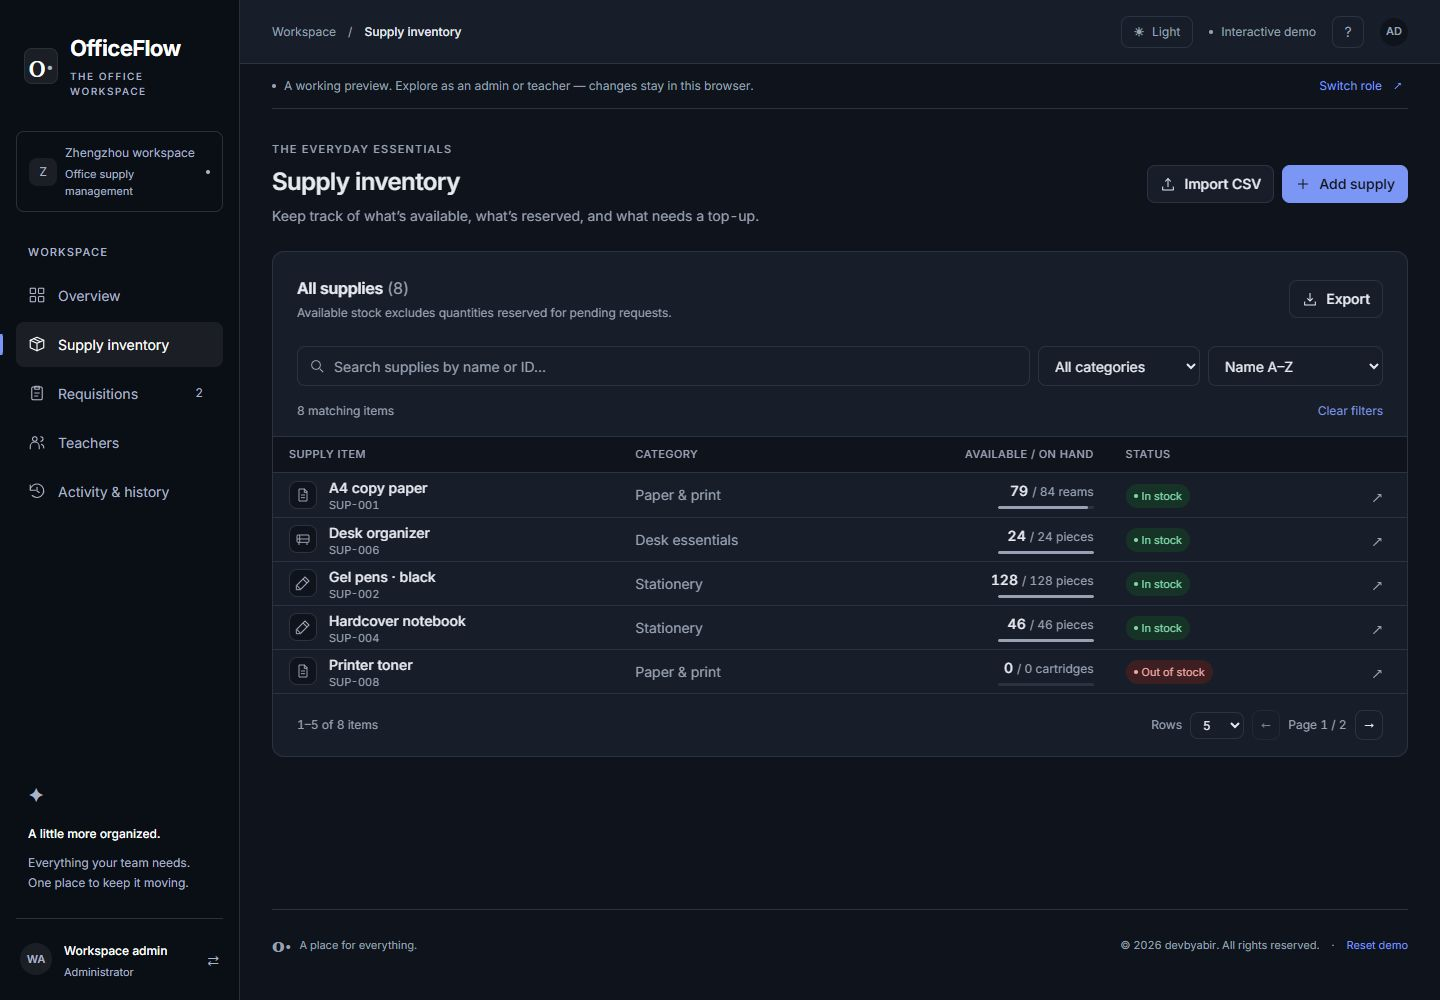
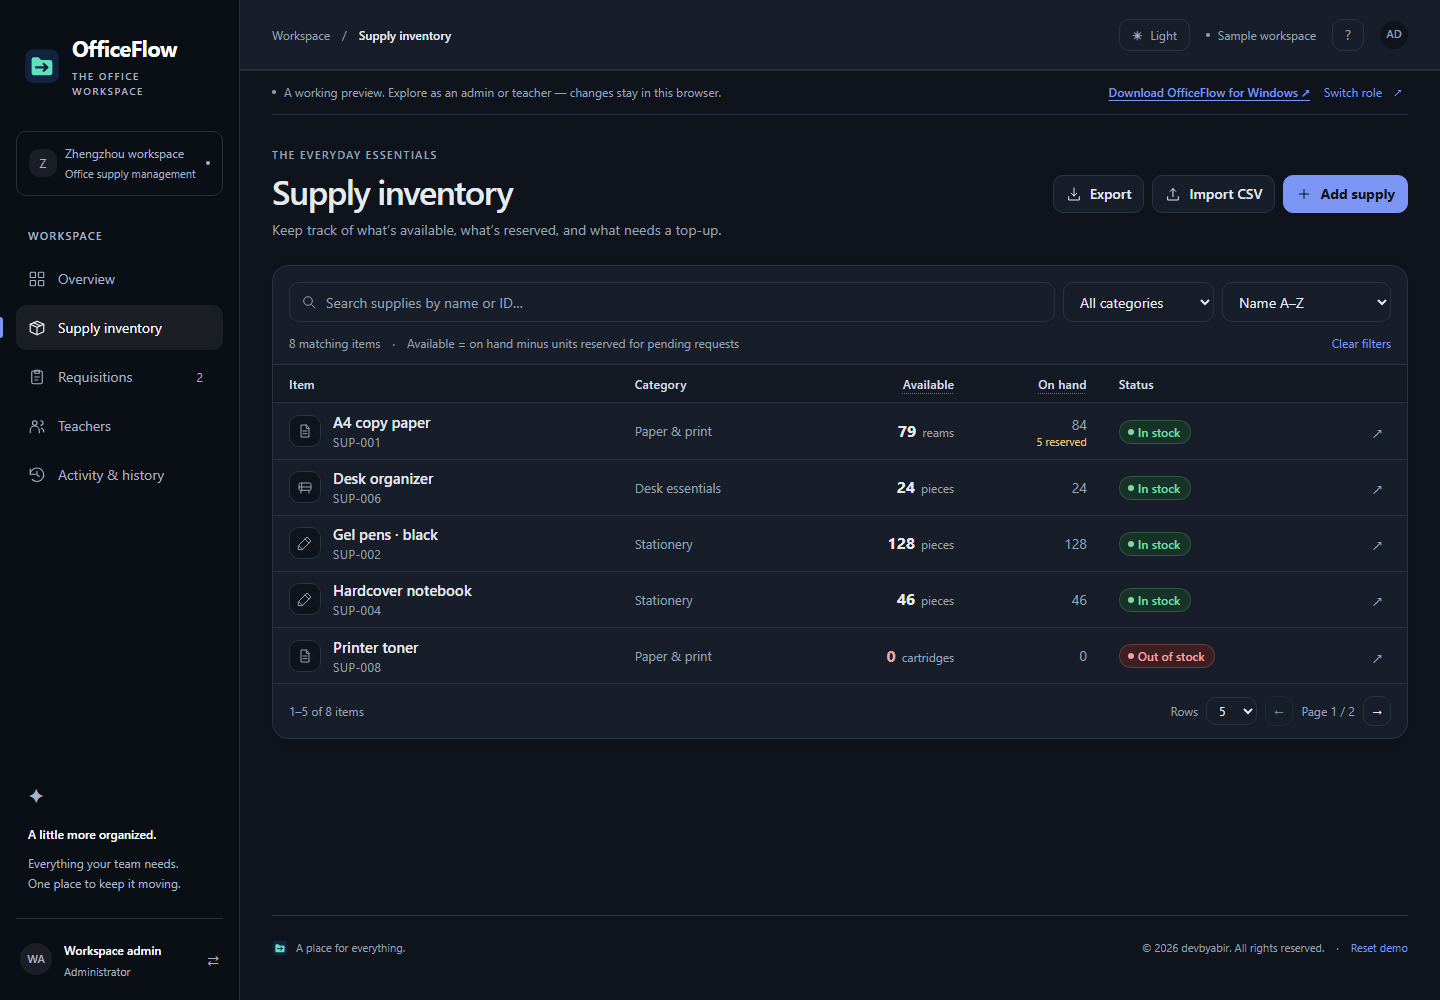
Refresh README screenshots and tighten CI permissions

diff --git a/tests/test_server.py b/tests/test_server.py
@@ -543,7 +543,7 @@ def legacy_upgrade(temp):
               " release's JAR.")
         return
     original = Path(temp) / "legacy-original" / "officeflow"
-    # 13 characters: valid under the previous 12-character rule, too short for a new password.
+    # 13 characters: valid in 1.0.0, retained on upgrade but too long for a new password.
     old_admin, old_teacher = "legacy-pass13", "legacy-teach1"
     # The previous release reads the web files of its own checkout (server/target/../../docs).
     legacy_site = Path(legacy_jar).resolve().parents[2] / "docs" / "site"

diff --git a/README.md b/README.md
@@ -16,6 +16,9 @@ Java 17+ | JDBC | H2 | JavaScript | GitHub Pages
 
 </div>
 
+The screenshots below show the current 1.0.1 interface using fictional demo
+data. The installed app uses the same workspace layout after sign-in.
+
 ![OfficeFlow dashboard](docs/images/dashboard.png)
 
 <details>
